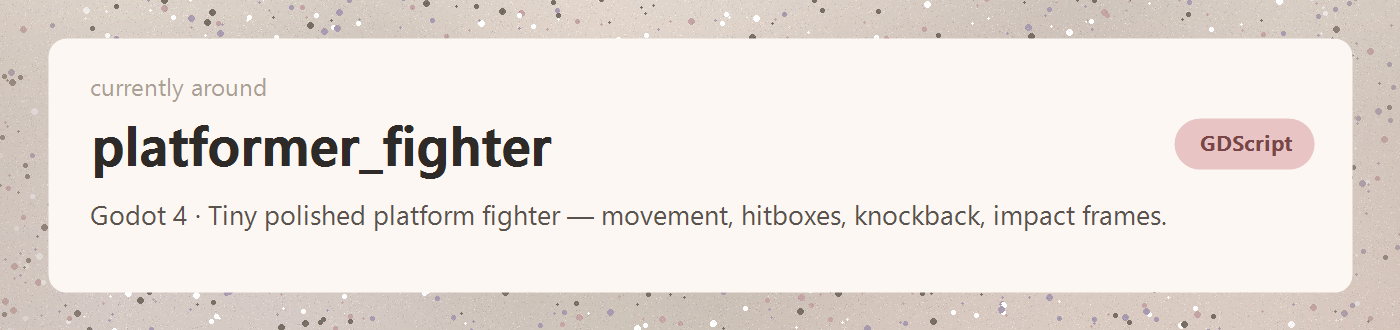
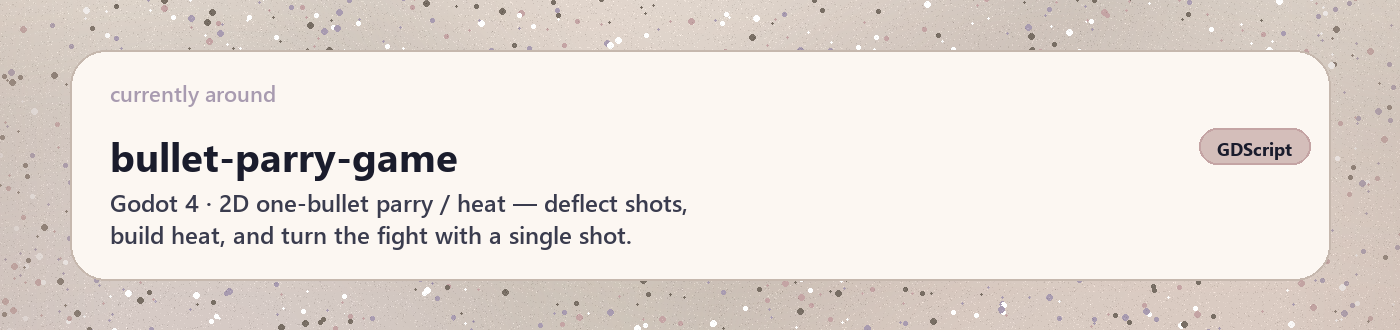
Point currently around at bullet-parry-game.
Update the working card and README link to the latest public repo.

Changed region(s): [[0.0307, 0.0909, 0.9829, 0.9091]]

diff --git a/README.md b/README.md
@@ -1,1 +1,1 @@
-<img src="https://raw.githubusercontent.com/Akuvent/Akuvent/main/assets/01_header.png" alt="akuvent — Devoting my youth to the eight gates of code." width="100%" align="top"><img src="https://raw.githubusercontent.com/Akuvent/Akuvent/main/assets/02_skills.png" alt="Skills: GDScript, Python, C#." width="100%" align="top"><a href="https://www.youtube.com/@CocazEtSeloz"><img src="https://raw.githubusercontent.com/Akuvent/Akuvent/main/assets/03a_youtube.png" alt="YouTube" width="282" align="top"></a><a href="https://discord.com/invite/ThCfqbr5Nw"><img src="https://raw.githubusercontent.com/Akuvent/Akuvent/main/assets/03b_discord.png" alt="Discord" width="282" align="top"></a><a href="https://steamcommunity.com/profiles/76561199229132682/"><img src="https://raw.githubusercontent.com/Akuvent/Akuvent/main/assets/03c_steam.png" alt="Steam" width="282" align="top"></a><a href="https://github.com/Akuvent/platformer_fighter"><img src="https://raw.githubusercontent.com/Akuvent/Akuvent/main/assets/04_working.png" alt="platformer_fighter" width="100%" align="top"></a><img src="https://raw.githubusercontent.com/Akuvent/Akuvent/main/assets/05_footer.png" width="100%" alt="thanks for stopping by — feel free to look around" align="top">
+<img src="https://raw.githubusercontent.com/Akuvent/Akuvent/main/assets/01_header.png" alt="akuvent — Devoting my youth to the eight gates of code." width="100%" align="top"><img src="https://raw.githubusercontent.com/Akuvent/Akuvent/main/assets/02_skills.png" alt="Skills: GDScript, Python, C#." width="100%" align="top"><a href="https://www.youtube.com/@CocazEtSeloz"><img src="https://raw.githubusercontent.com/Akuvent/Akuvent/main/assets/03a_youtube.png" alt="YouTube" width="282" align="top"></a><a href="https://discord.com/invite/ThCfqbr5Nw"><img src="https://raw.githubusercontent.com/Akuvent/Akuvent/main/assets/03b_discord.png" alt="Discord" width="282" align="top"></a><a href="https://steamcommunity.com/profiles/76561199229132682/"><img src="https://raw.githubusercontent.com/Akuvent/Akuvent/main/assets/03c_steam.png" alt="Steam" width="282" align="top"></a><a href="https://github.com/Akuvent/bullet-parry-game"><img src="https://raw.githubusercontent.com/Akuvent/Akuvent/main/assets/04_working.png" alt="bullet-parry-game" width="100%" align="top"></a><img src="https://raw.githubusercontent.com/Akuvent/Akuvent/main/assets/05_footer.png" width="100%" alt="thanks for stopping by — feel free to look around" align="top">
